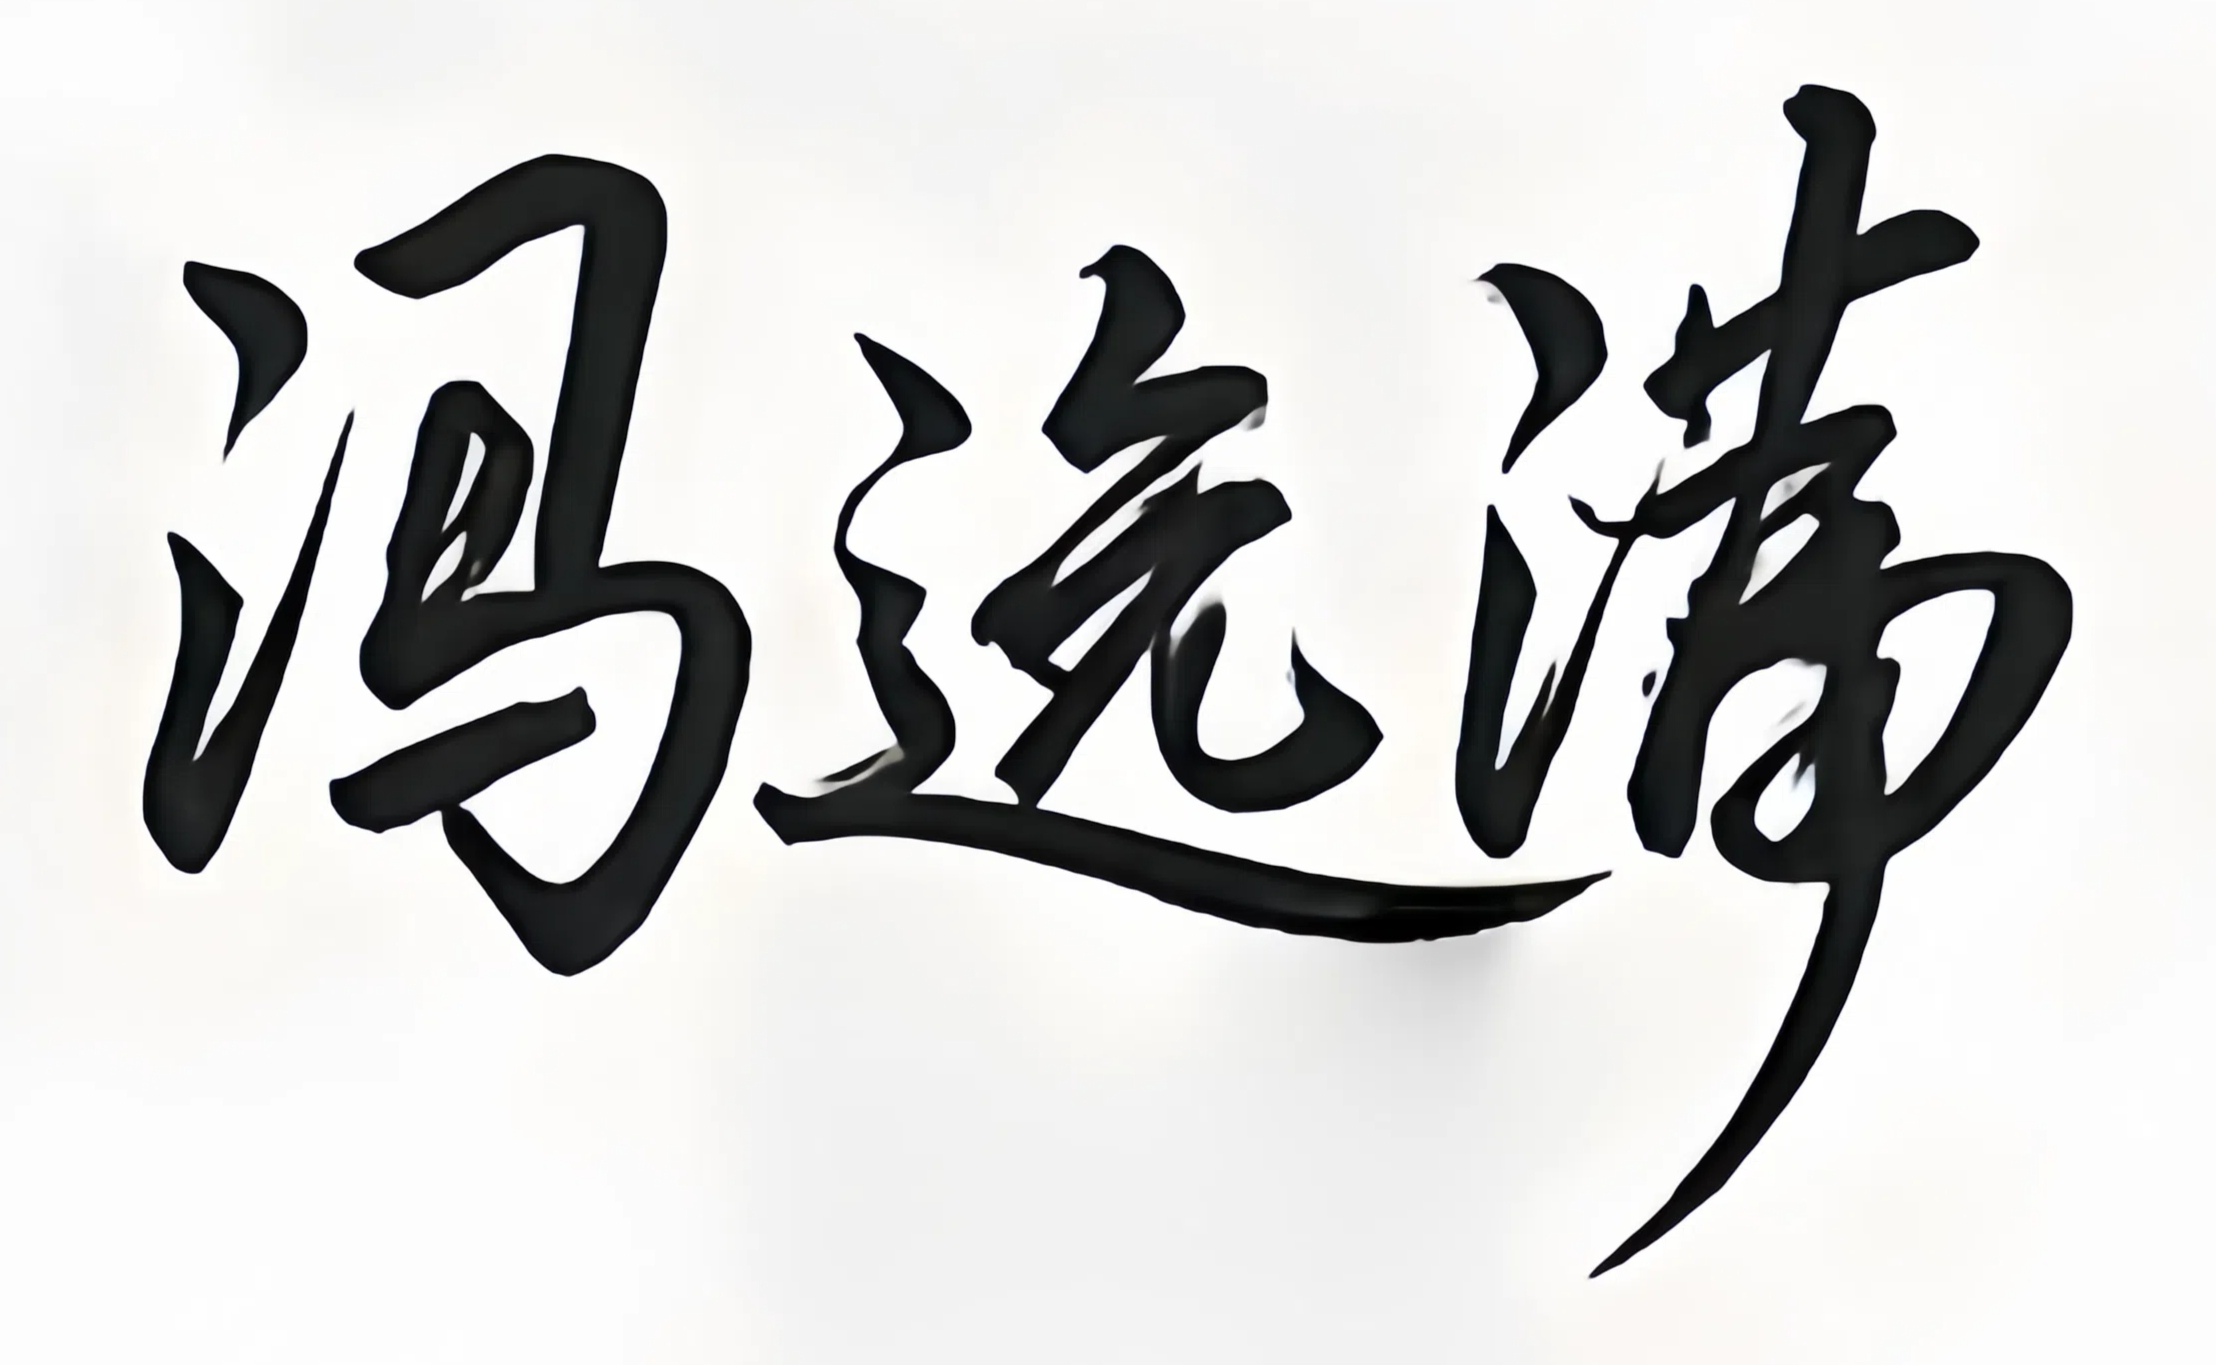
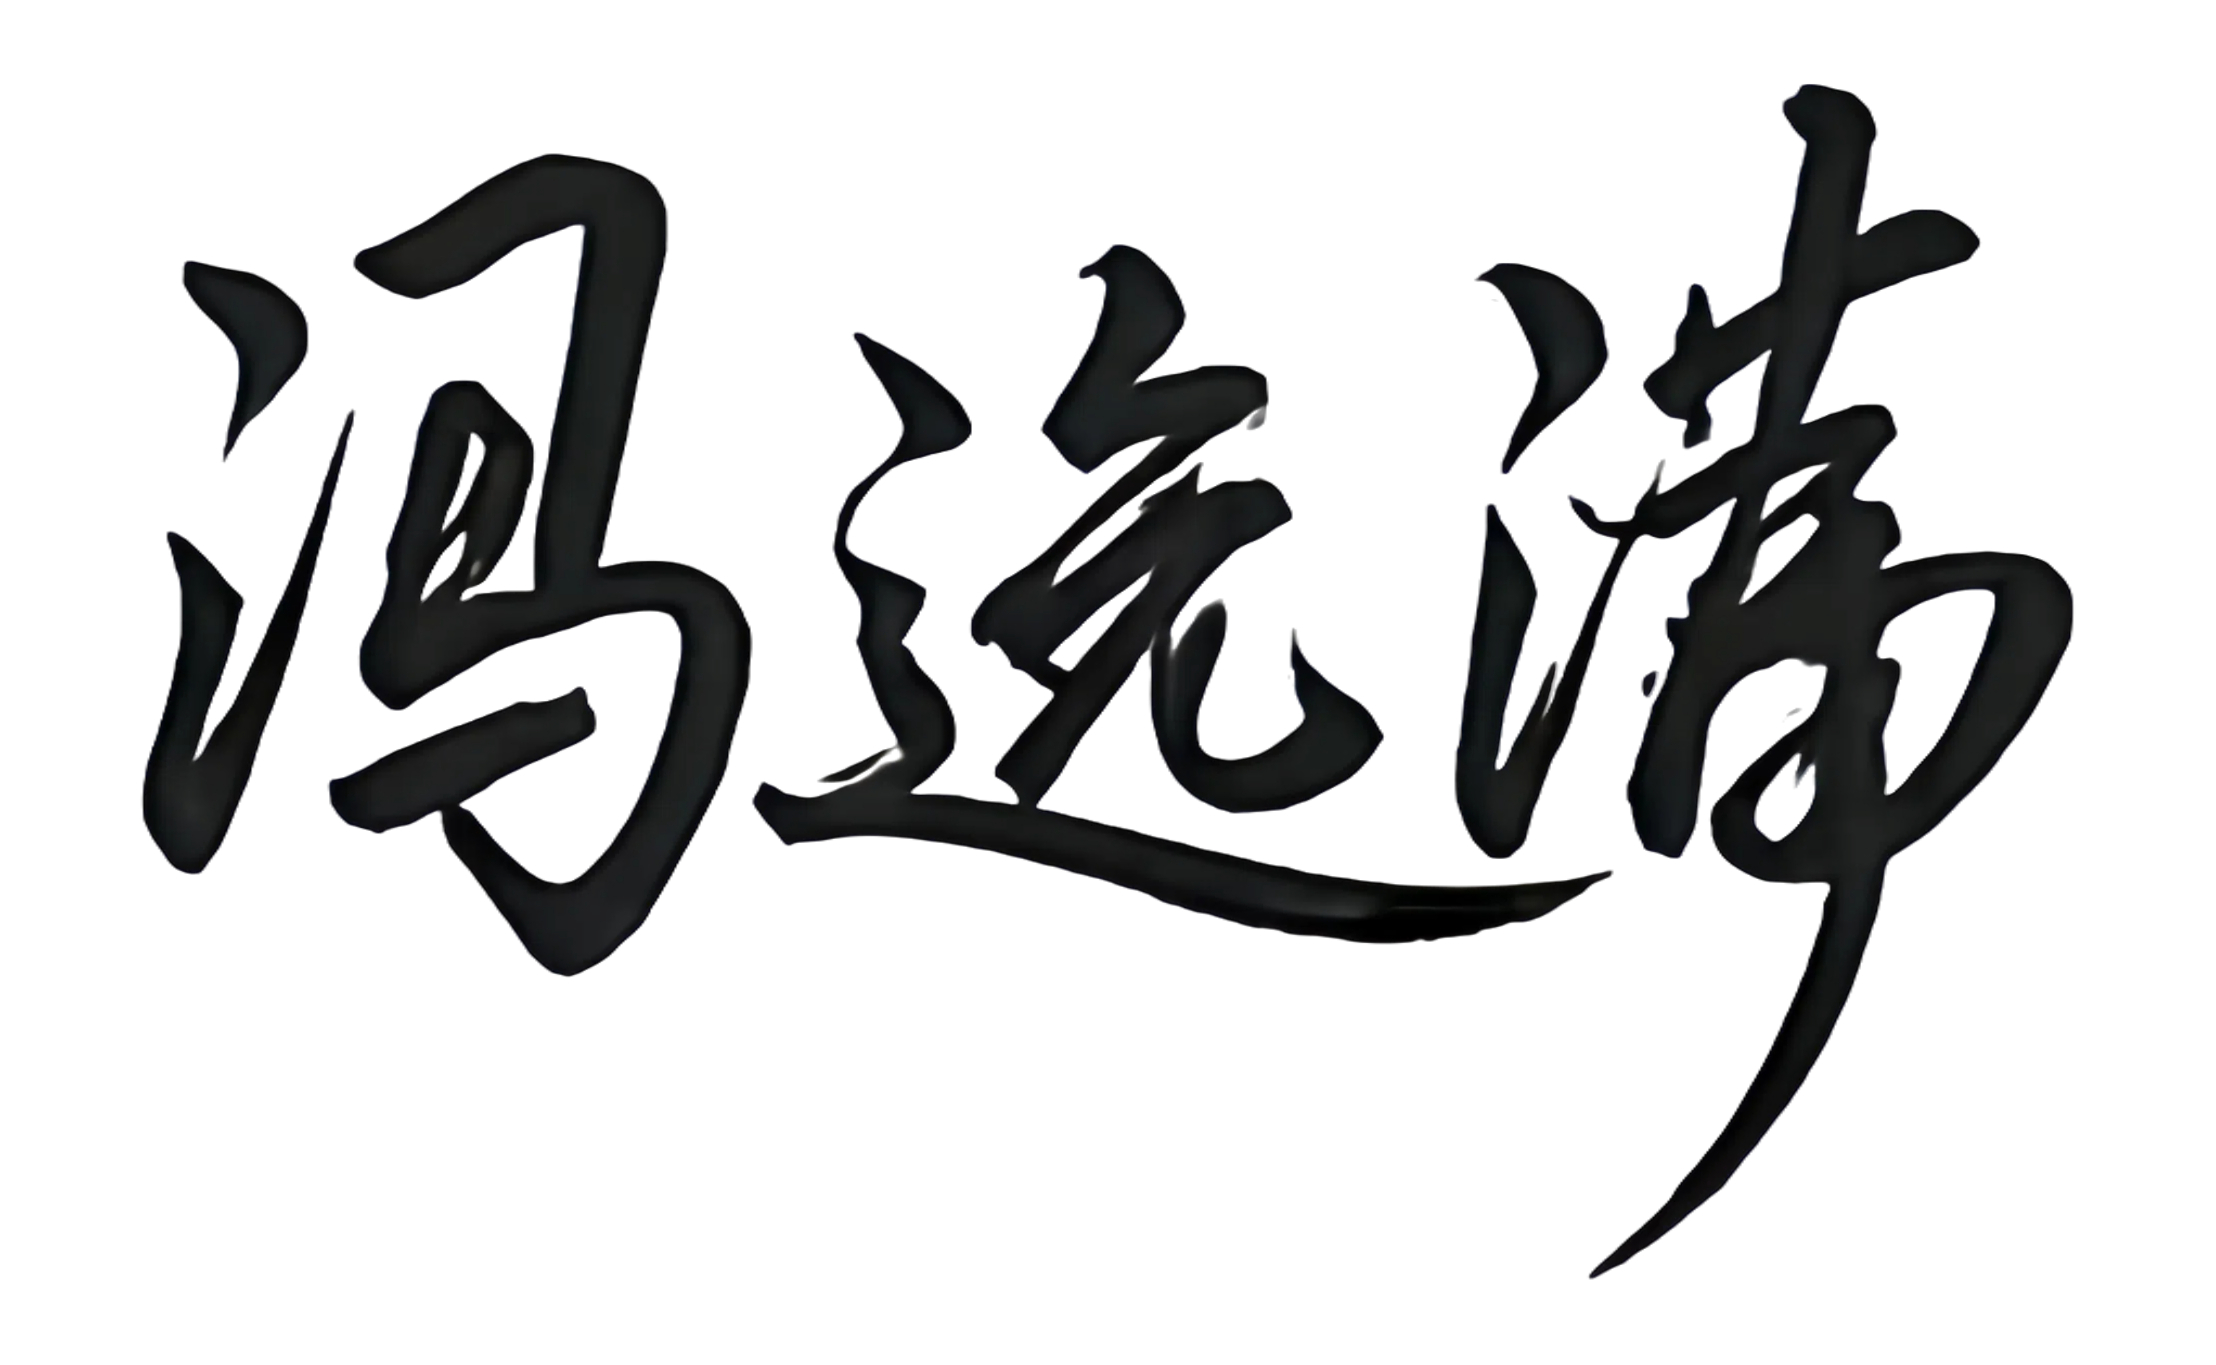
update signature

diff --git a/index.html b/index.html
@@ -29,7 +29,7 @@
                   <p class="name" style="text-align: center;">
                     Yixiao Feng | 冯逸潇
                   </p>
-                  <div style="text-align: center; margin-top: -10px; margin-bottom: 10px;">
+                  <div style="text-align: center; margin-top: 10px; margin-bottom: 10px;">
                     <img src="images/signature_1.jpg" alt="signature" height="50px">
                   </div> 
                   <p>
